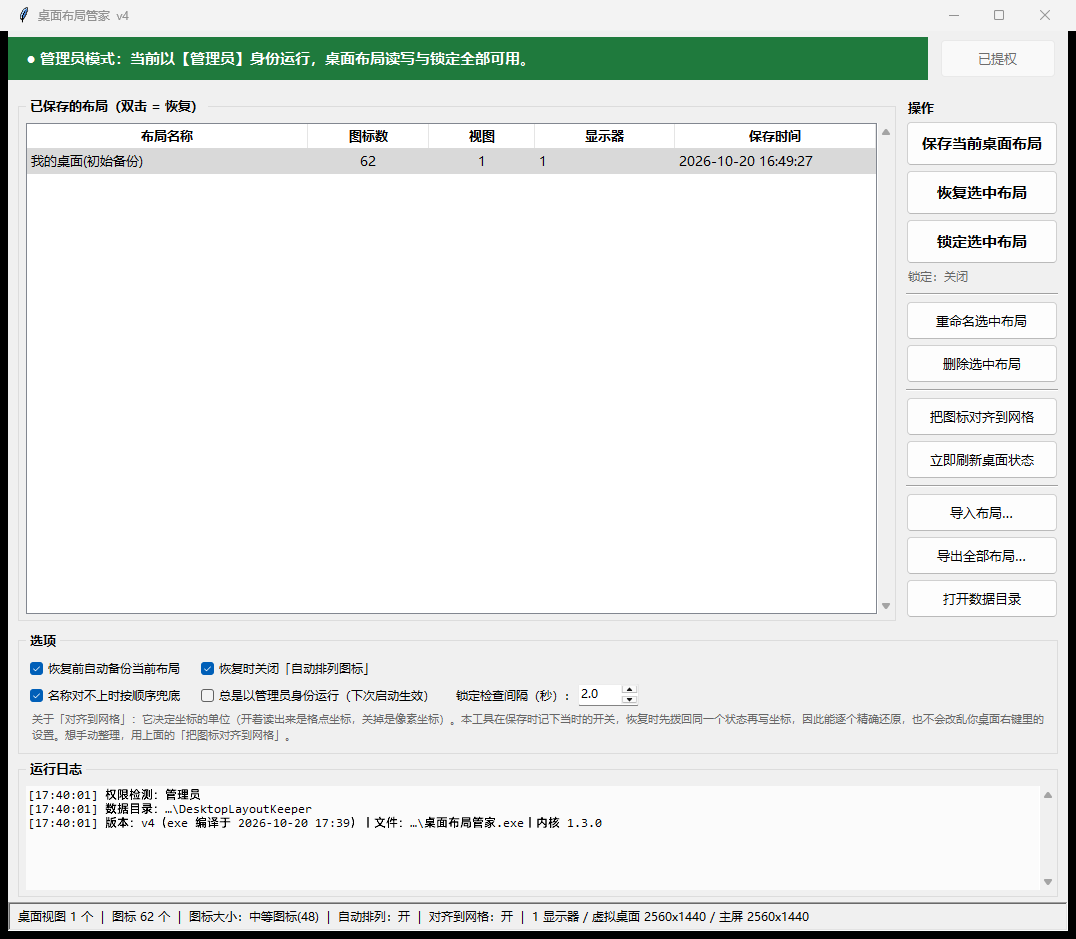
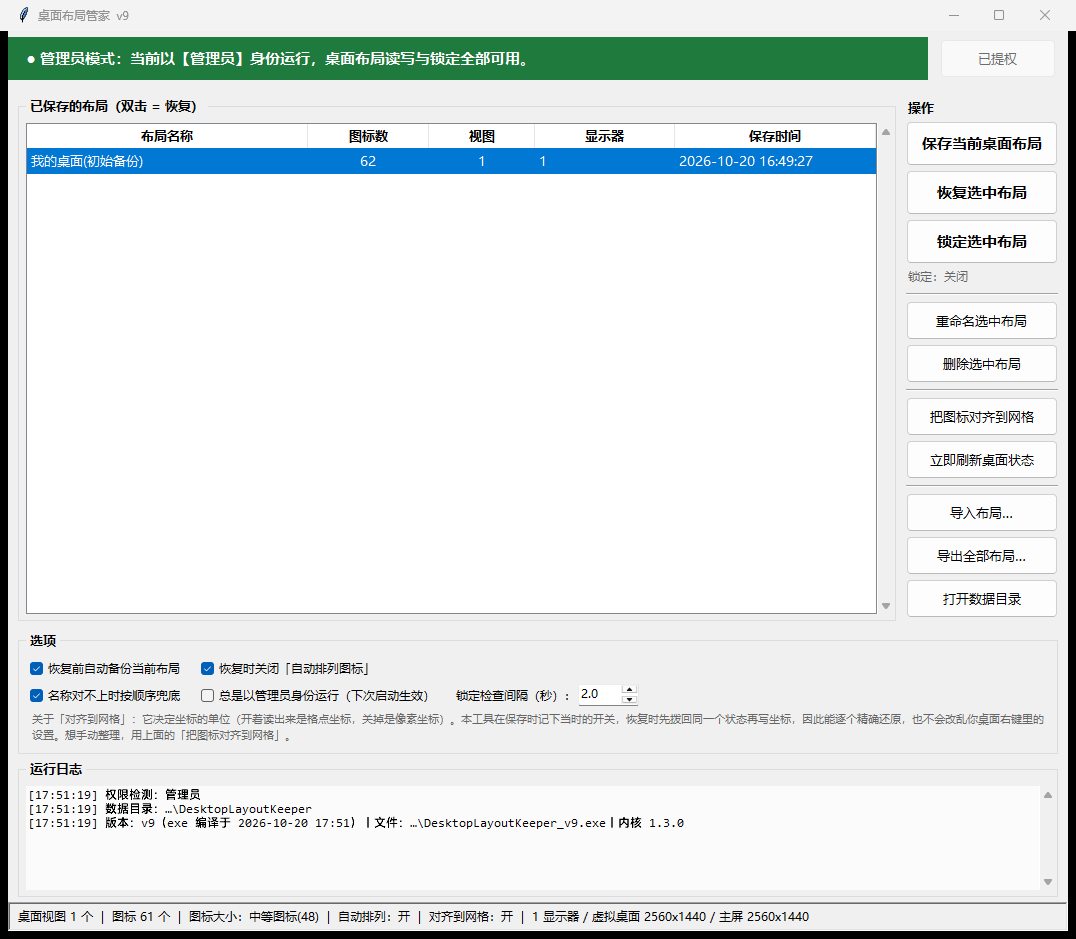
抓图硬伤修复：--scrub 只认自己启动的进程树，并刷新 README 界面图
- _dev/_shot.py：--scrub 时 find_window 改用 pid_only，标题再像也不认别的进程的窗口。
  PyInstaller 的 onefile exe 会再 fork 子进程，原先只 kill 父进程会留下幽灵实例；
  上一轮就抓到 v4 的旧窗口，于是「预览图是旧的、自检用的是新进程」，
  这种假通过比不打码更危险。
- 抓完改成整树杀（taskkill /F /T），不再累积幽灵窗口。
- assets/screenshot.png：换成发布版 v9 抓的图，日志行显示 v9 与内核 1.3.0，
  本机路径由程序自己打码（残留检查 0 处）。
- README：更新日志补上这条踩坑。

Changed region(s): [[0.0, 0.1544, 0.8281, 0.1853], [0.3987, 0.8647, 0.6134, 0.8956], [0.0307, 0.8339, 0.092, 0.8956]]

diff --git a/_dev/_shot.py b/_dev/_shot.py
@@ -122,10 +122,13 @@ def child_pids(root_pid: int) -> set:
     return pids
 
 
-def find_window(pids, title_contains: str = "", min_w: int = 200, min_h: int = 150):
+def find_window(pids, title_contains: str = "", min_w: int = 200, min_h: int = 150,
+                pid_only: bool = False):
     """在这些进程里找第一个「够大的、可见的、有标题的」顶层窗口。
 
     title_contains 非空时优先按标题匹配（跨进程树也能找到），否则按 pid 匹配。
+    pid_only=True 时只要 pid 对上的，标题再像也不认 —— 抓图/打码必须用这个，
+    否则上一轮残留的旧实例会把标题先匹配走，你会对 A 窗口做校验、给 B 进程打码。
     """
     if isinstance(pids, int):
         pids = {pids}
@@ -150,6 +153,8 @@ def find_window(pids, title_contains: str = "", min_w: int = 200, min_h: int = 1
         wpid = wt.DWORD(0)
         u32.GetWindowThreadProcessId(hwnd, ctypes.byref(wpid))
         by_pid = wpid.value in pids
+        if pid_only and not by_pid:
+            return True
         by_title = bool(title_contains) and title_contains in title
         if by_pid or by_title:
             hits.append((hwnd, title, w, h, by_pid, by_title))
@@ -160,7 +165,10 @@ def find_window(pids, title_contains: str = "", min_w: int = 200, min_h: int = 1
         return None
     # pid 对上的优先，其次是标题对上的
     hits.sort(key=lambda t: (not t[4], not t[5]))
-    return hits[0][:4]
+    win = hits[0][:4]
+    if pid_only and not hits[0][4]:
+        return None                      # 理论上来不到这里，保险一下
+    return win
 
 
 def grab(hwnd) -> tuple[int, int, bytes]:
@@ -370,6 +378,10 @@ def main() -> int:
     print("启动：%s" % " ".join(cmd))
     proc = subprocess.Popen(cmd, cwd=ROOT, env=child_env)
 
+    # 打码时只认自己启动的那棵进程树：上一轮残留的旧实例标题一模一样，
+    # 按标题先匹配到它就会出现「图是旧的、校验的是新的」这种假通过。
+    pid_only = bool(args.scrub)
+
     shot = None
     t0 = time.time()
     while time.time() - t0 < args.wait:
@@ -378,7 +390,7 @@ def main() -> int:
             print("进程提前退出了，退出码 %s" % proc.returncode)
             break
         tree = child_pids(proc.pid)
-        win = find_window(tree, args.title)
+        win = find_window(tree, args.title, pid_only=pid_only)
         if win:
             shot = win
             break
@@ -400,7 +412,12 @@ def main() -> int:
     rc = 0
     if args.scrub:
         rc = scrub_check(out, dump_path)
-    proc.kill()
+    # onefile 的 exe 会再 fork 一个子进程，只 kill 父进程会留下幽灵窗口，
+    # 下一轮抓图就抓到它 —— 所以整树杀。
+    subprocess.run(["taskkill", "/F", "/T", "/PID", str(proc.pid)],
+                   capture_output=True)
+    if proc.poll() is None:
+        proc.kill()
     return rc
 
 
